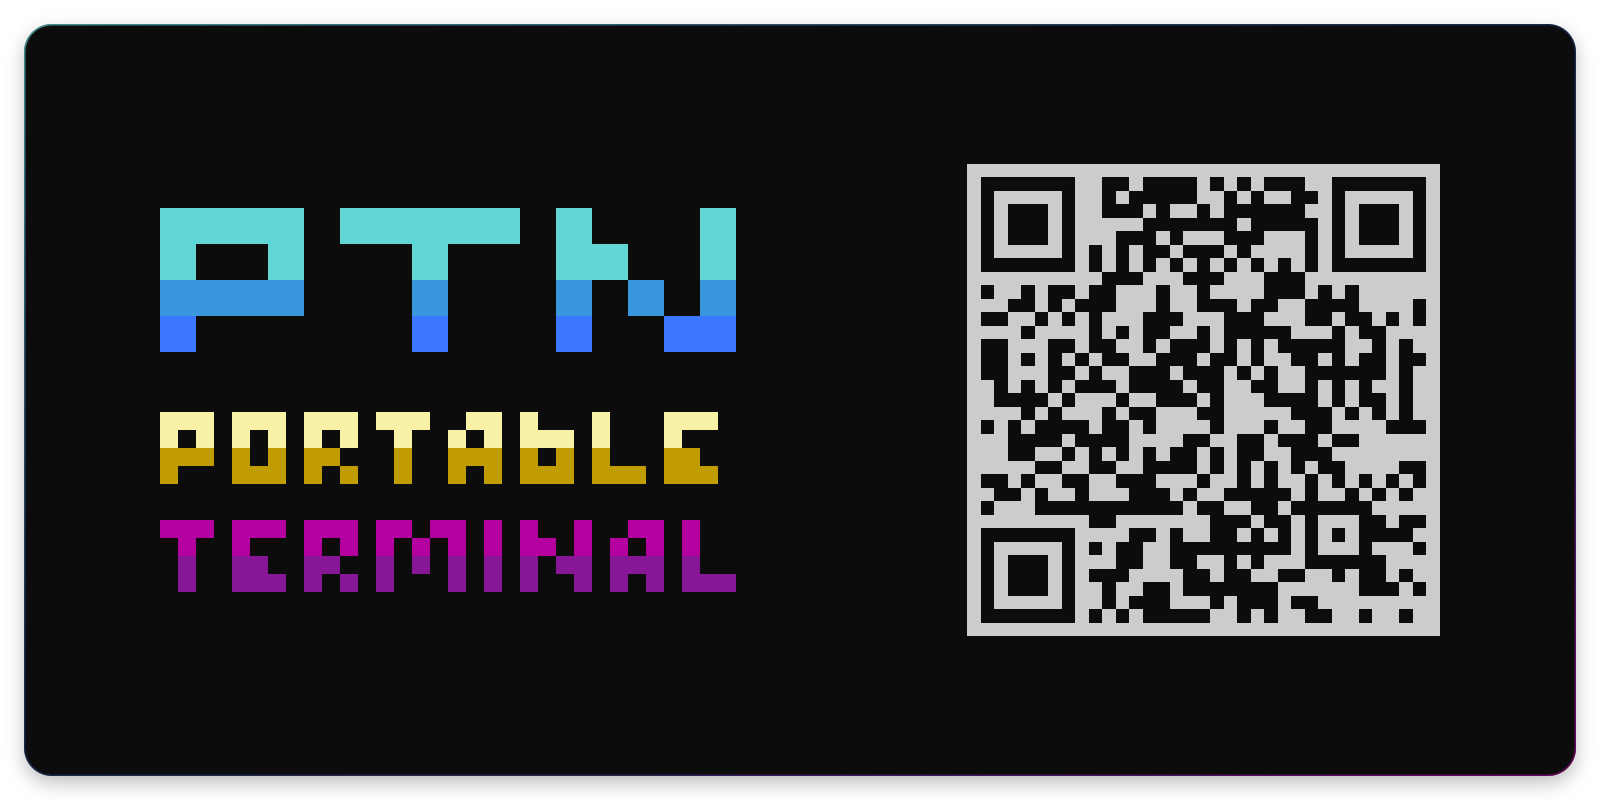
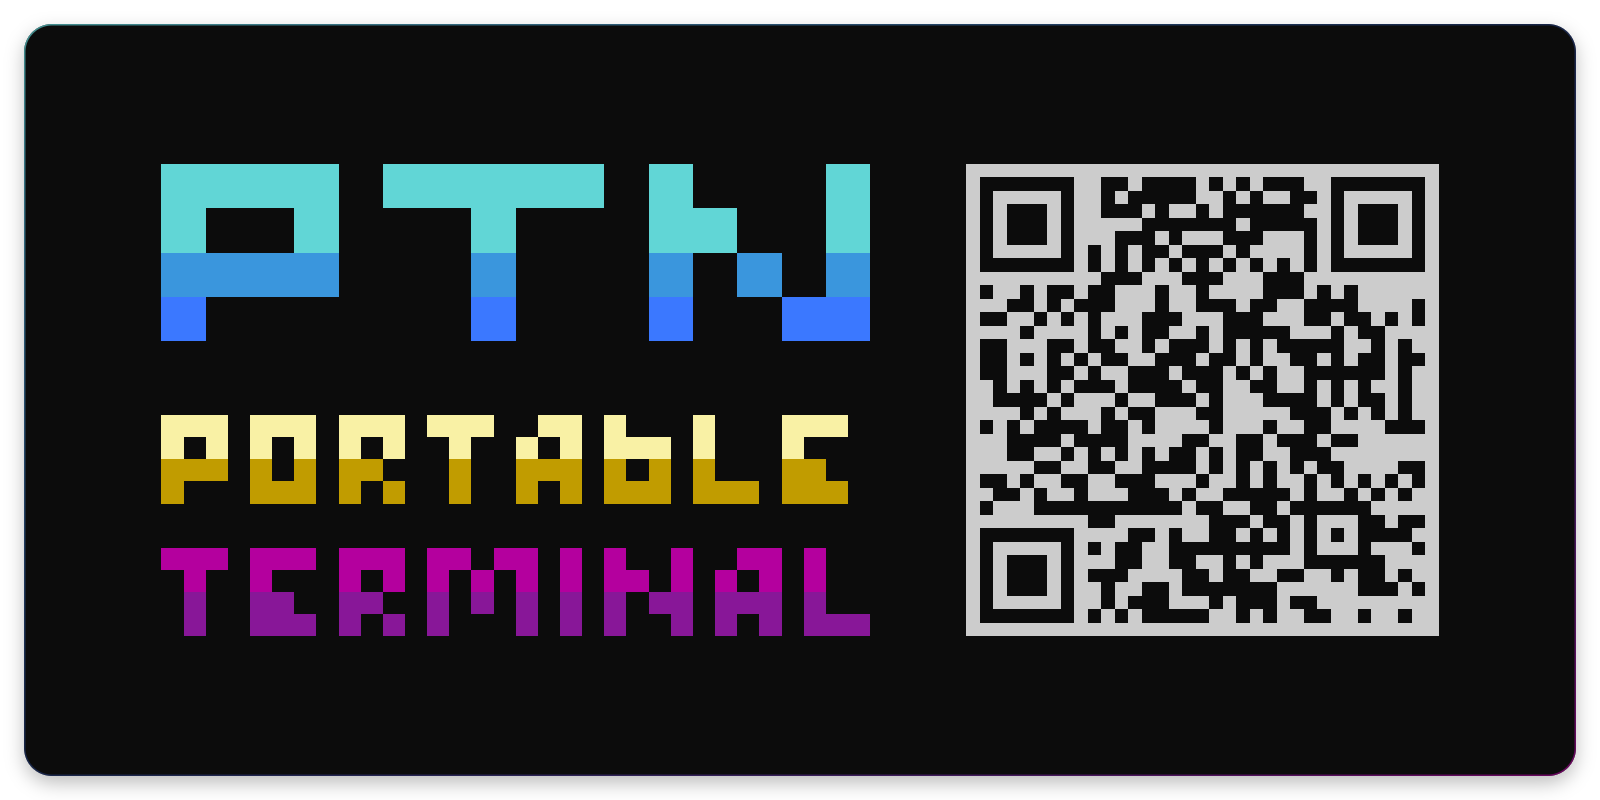
docs: align the header lettering with the QR (#76)

Changed region(s): [[0.0938, 0.5, 0.5625, 0.8125], [0.0938, 0.1875, 0.5625, 0.4375]]

diff --git a/README.md b/README.md
@@ -1,6 +1,6 @@
 <p align="center">
   <a href="https://github.com/porterminal/porterminal">
-    <img src="https://raw.githubusercontent.com/porterminal/porterminal/master/assets/header.png?v=8" alt="PTN — Portable Terminal with decorative QR artwork." width="800">
+    <img src="https://raw.githubusercontent.com/porterminal/porterminal/master/assets/header.png?v=9" alt="PTN — Portable Terminal with decorative QR artwork." width="800">
   </a>
 </p>
 
